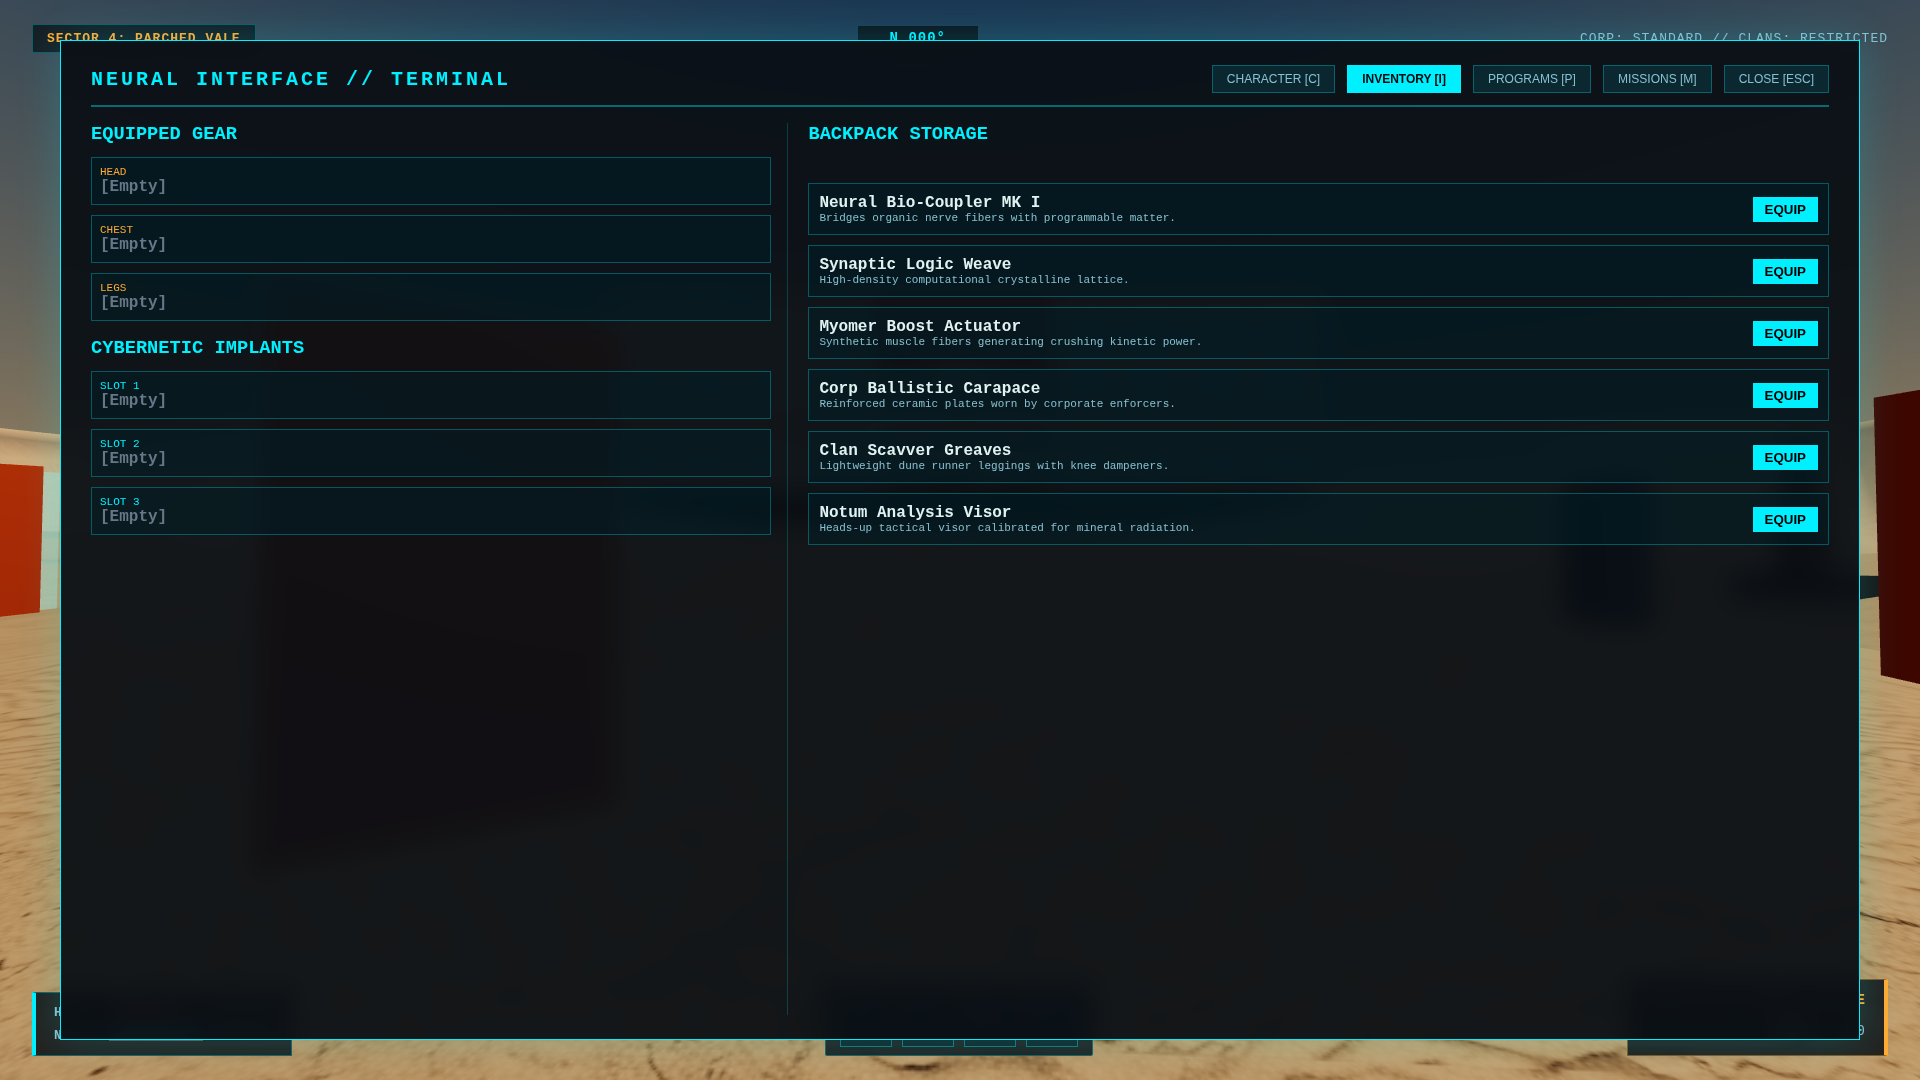
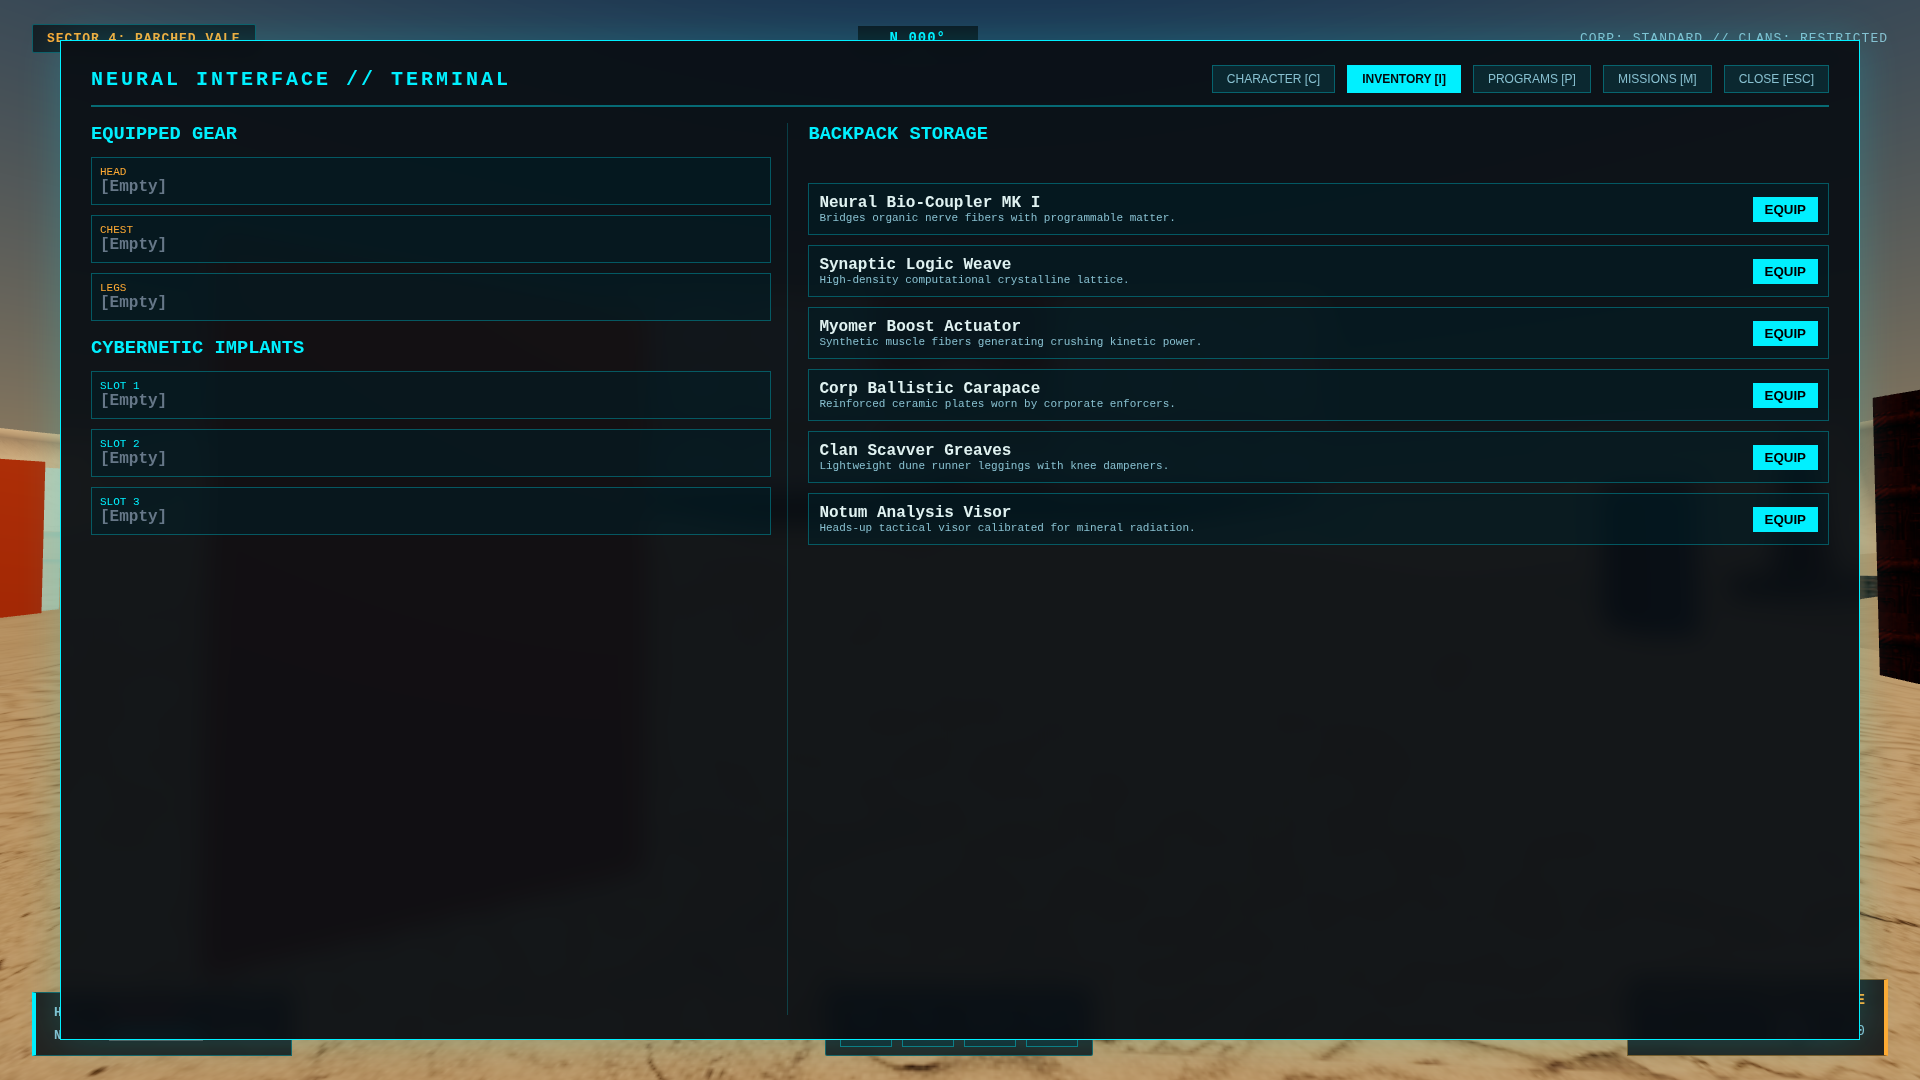
Integrate object textures for pipelines, sensor pylons, drill towers, rock formations, and target dummies

Changed region(s): [[0.9688, 0.3667, 1.0, 0.6417], [0.0, 0.4278, 0.0312, 0.4583]]

diff --git a/src/world/props.ts b/src/world/props.ts
@@ -14,8 +14,17 @@ export class WorldProps {
 
   // 1. Industrial Mining Pipelines
   private spawnMiningPipelines() {
-    const pipeMat = new THREE.MeshStandardMaterial({ color: 0x48525b, roughness: 0.6, metalness: 0.8 });
-    const pylonMat = new THREE.MeshStandardMaterial({ color: 0xff6600, roughness: 0.5, metalness: 0.4 });
+    let pipeMap: THREE.Texture | null = null;
+    if (typeof window !== 'undefined' && typeof Image !== 'undefined') {
+      try {
+        pipeMap = new THREE.TextureLoader().load('/textures/pipeline.jpg');
+        pipeMap.wrapS = THREE.RepeatWrapping;
+        pipeMap.wrapT = THREE.RepeatWrapping;
+        pipeMap.repeat.set(1, 4);
+      } catch (e) {}
+    }
+    const pipeMat = new THREE.MeshStandardMaterial({ map: pipeMap, color: 0xffffff, roughness: 0.6, metalness: 0.8 });
+    const pylonMat = new THREE.MeshStandardMaterial({ map: pipeMap, color: 0xff6600, roughness: 0.5, metalness: 0.4 });
 
     // Pipeline running from (10, -50) toward (70, 30)
     const count = 7;
@@ -54,7 +63,16 @@ export class WorldProps {
 
   // 2. Corporate Holographic Boundary Pylons
   private spawnWarningPylons() {
-    const pylonMat = new THREE.MeshStandardMaterial({ color: 0xcccccc, roughness: 0.7, metalness: 0.3 });
+    let pylonMap: THREE.Texture | null = null;
+    if (typeof window !== 'undefined' && typeof Image !== 'undefined') {
+      try {
+        pylonMap = new THREE.TextureLoader().load('/textures/pylon.jpg');
+        pylonMap.wrapS = THREE.RepeatWrapping;
+        pylonMap.wrapT = THREE.RepeatWrapping;
+        pylonMap.repeat.set(1, 2);
+      } catch (e) {}
+    }
+    const pylonMat = new THREE.MeshStandardMaterial({ map: pylonMap, color: 0xffffff, roughness: 0.7, metalness: 0.3 });
     const holoMat = new THREE.MeshBasicMaterial({ color: 0x00f0ff, transparent: true, opacity: 0.7, wireframe: true });
 
     const pylonPositions = [
@@ -84,8 +102,17 @@ export class WorldProps {
 
   // 3. Mining Drill Towers
   private spawnDrillTowers() {
-    const towerMat = new THREE.MeshStandardMaterial({ color: 0x4a4e54, roughness: 0.8, metalness: 0.5 });
-    const drillMat = new THREE.MeshStandardMaterial({ color: 0xcc5500, roughness: 0.4, metalness: 0.6 });
+    let drillMap: THREE.Texture | null = null;
+    if (typeof window !== 'undefined' && typeof Image !== 'undefined') {
+      try {
+        drillMap = new THREE.TextureLoader().load('/textures/drill.jpg');
+        drillMap.wrapS = THREE.RepeatWrapping;
+        drillMap.wrapT = THREE.RepeatWrapping;
+        drillMap.repeat.set(2, 3);
+      } catch (e) {}
+    }
+    const towerMat = new THREE.MeshStandardMaterial({ map: drillMap, color: 0xcccccc, roughness: 0.8, metalness: 0.5 });
+    const drillMat = new THREE.MeshStandardMaterial({ map: drillMap, color: 0xff8833, roughness: 0.4, metalness: 0.6 });
 
     const towerLocations = [
       new THREE.Vector3(50, 0, -80),
@@ -116,7 +143,16 @@ export class WorldProps {
 
   // 4. Natural Desert Boulders
   private spawnRockFormations() {
-    const rockMat = new THREE.MeshStandardMaterial({ color: 0x826c58, roughness: 0.95 });
+    let rockMap: THREE.Texture | null = null;
+    if (typeof window !== 'undefined' && typeof Image !== 'undefined') {
+      try {
+        rockMap = new THREE.TextureLoader().load('/textures/rock.jpg');
+        rockMap.wrapS = THREE.RepeatWrapping;
+        rockMap.wrapT = THREE.RepeatWrapping;
+        rockMap.repeat.set(1.5, 1.5);
+      } catch (e) {}
+    }
+    const rockMat = new THREE.MeshStandardMaterial({ map: rockMap, color: 0xddbbaa, roughness: 0.95 });
     const clusters = [
       { x: -30, z: 20, size: 2.5 },
       { x: 20, z: 50, size: 3.2 },

diff --git a/src/combat/target_dummy.ts b/src/combat/target_dummy.ts
@@ -22,9 +22,37 @@ export class TargetDummy {
     this.mesh.position.copy(pos);
 
     // Visual Mesh: base, torso, bullseye target
-    const baseMat = new THREE.MeshStandardMaterial({ color: 0x3a4048, roughness: 0.8 });
-    const targetMat = new THREE.MeshStandardMaterial({ color: 0xff3333, roughness: 0.4 });
-    const coreMat = new THREE.MeshStandardMaterial({ color: 0xffffff, roughness: 0.2 });
+    let targetTexture: THREE.CanvasTexture | null = null;
+    if (typeof document !== 'undefined') {
+      try {
+        const cvs = document.createElement('canvas');
+        cvs.width = 256;
+        cvs.height = 256;
+        const ctx = cvs.getContext('2d');
+        if (ctx) {
+          ctx.fillStyle = '#b52b27';
+          ctx.fillRect(0, 0, 256, 256);
+          const rings = [105, 80, 55, 30, 12];
+          rings.forEach((r, idx) => {
+            ctx.beginPath();
+            ctx.arc(128, 128, r, 0, Math.PI * 2);
+            ctx.fillStyle = idx % 2 === 0 ? '#ffffff' : '#b52b27';
+            ctx.fill();
+          });
+          ctx.strokeStyle = 'rgba(0,0,0,0.6)';
+          ctx.lineWidth = 3;
+          ctx.beginPath();
+          ctx.moveTo(128, 10); ctx.lineTo(128, 246);
+          ctx.moveTo(10, 128); ctx.lineTo(246, 128);
+          ctx.stroke();
+          targetTexture = new THREE.CanvasTexture(cvs);
+        }
+      } catch (e) {}
+    }
+
+    const baseMat = new THREE.MeshStandardMaterial({ color: 0x2e333a, roughness: 0.8 });
+    const targetMat = new THREE.MeshStandardMaterial({ color: 0x992222, roughness: 0.5 });
+    const coreMat = new THREE.MeshStandardMaterial({ map: targetTexture, color: 0xffffff, roughness: 0.3 });
 
     const base = new THREE.Mesh(new THREE.CylinderGeometry(0.6, 0.7, 0.3, 16), baseMat);
     base.position.y = 0.15;
@@ -38,7 +66,7 @@ export class TargetDummy {
     torso.position.y = 1.2;
     this.mesh.add(torso);
 
-    const bullseye = new THREE.Mesh(new THREE.CylinderGeometry(0.2, 0.2, 0.32, 16), coreMat);
+    const bullseye = new THREE.Mesh(new THREE.CylinderGeometry(0.24, 0.24, 0.32, 16), coreMat);
     bullseye.rotation.x = Math.PI / 2;
     bullseye.position.y = 1.2;
     this.mesh.add(bullseye);

diff --git a/DECISIONS.md b/DECISIONS.md
@@ -7,6 +7,7 @@
 - Step-up on <= 0.4m ledges is resolved by checking obstacle top height against foot elevation and verifying vertical clearance.
 - Three distinct interior structures: Corporate Outpost (brutalist bunker), Clan Encampment (canyon enclave), and Abandoned Processing Facility.
 - Primitive-composed procedural props (pipelines, drill rigs, warning pylons, boulders) automatically register solid bounding colliders in PhysicsWorld.
+- Generated bespoke surface textures via nano banana (desert sand ripples, notum crystal ore, brutalist concrete panels, scavenged clan metal) and integrated them into Three.js MeshStandardMaterial with texture repeating.
 - Weapon DPS tracking calculates damage over elapsed fire intervals and auto-resets after 3 seconds of dummy inactivity.
 - Enemy state machine alerts all allies within 30m upon entering combat engagement.
 - Unstick watchdog applies perpendicular evasion impulses when forward movement stalls for > 0.4s to guarantee navigation without getting stuck for > 3s.
